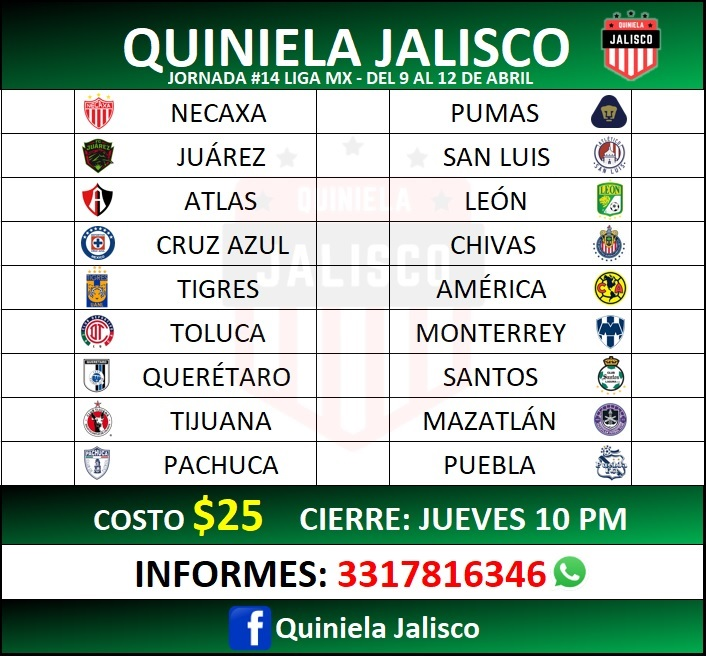
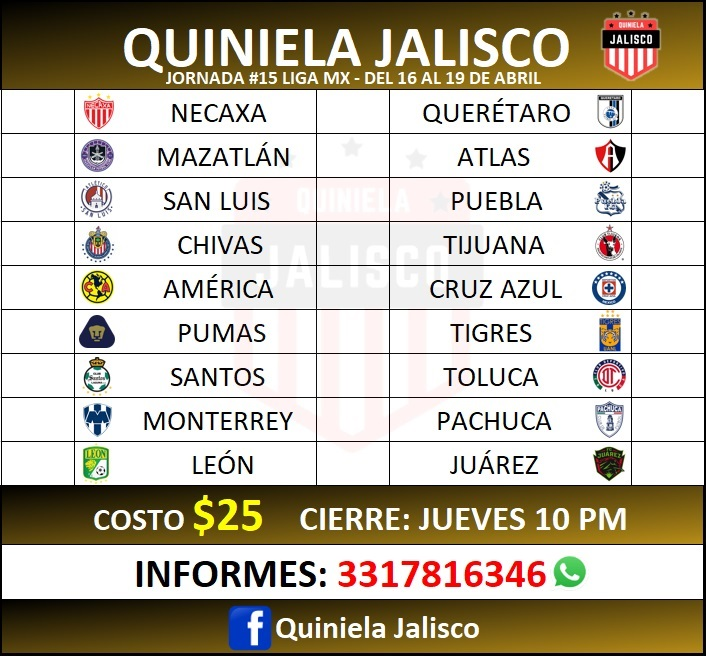
Jornada 15 C21

diff --git a/styles.css b/styles.css
@@ -87,8 +87,8 @@ h1{
     margin-top: 8%;
     border: solid 1px black;
     border-radius: 0 0 14px 14px;
-    background: -webkit-linear-gradient(0.04turn, rgb(8,20,20)  ,rgb(17,160,78) 80%);
-    background: linear-gradient(0.04turn, rgb(8,20,20)  ,rgb(17,160,78) 80%);
+    background: -webkit-linear-gradient(0.04turn, rgb(8,20,20)  ,rgb(172,131,25) 80%);
+    background: linear-gradient(0.04turn, rgb(8,20,20)  ,rgb(172,131,25) 80%);
     font-size: x-large;
 }
 
